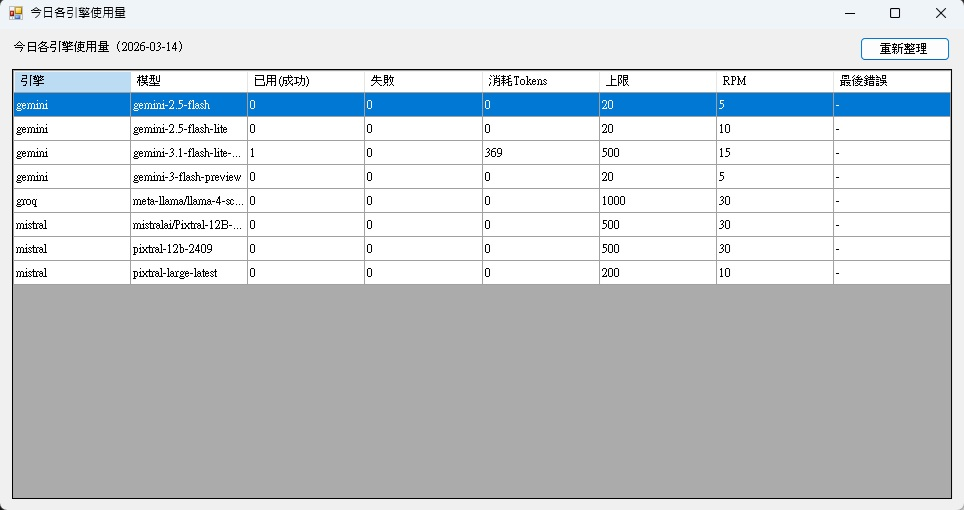
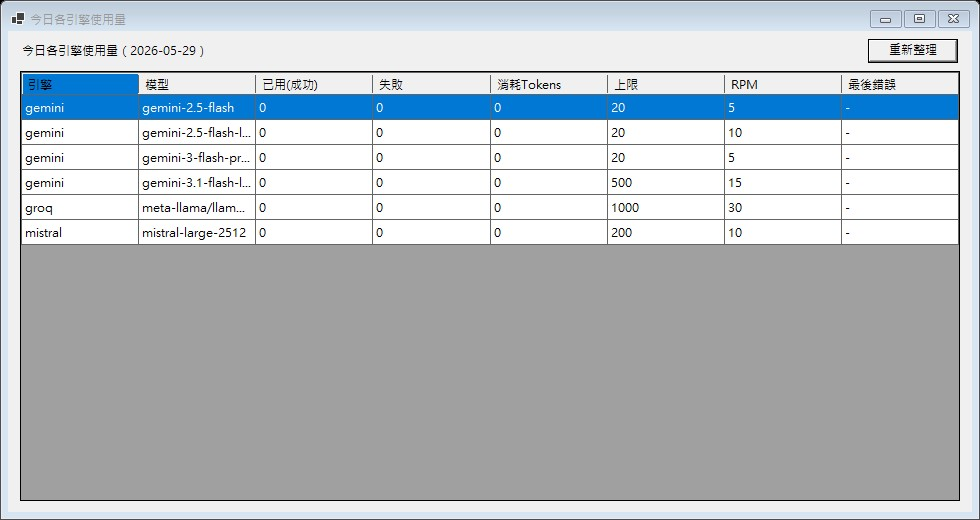
更新新版截圖與版本歷程
修改內容：

- 更新 README.md 引用的 images/main.jpg 與 images/Tokens.jpg。

- 在 README.md 的 V01.000 版本歷程補充截圖更新與 Tokens 面板清理。

- 移除 DailyQuotaTracker.cs 中舊 Pixtral 預設 quota 佔位列，避免新版 Tokens 面板顯示已移除模型。

Changed region(s): [[0.0, 0.0, 1.0, 1.0]]

diff --git a/DailyQuotaTracker.cs b/DailyQuotaTracker.cs
@@ -43,8 +43,6 @@ namespace ScreenOCRTranslator
 
                 ["groq|meta-llama/llama-4-scout-17b-16e-instruct"] = (1000, 30),
 
-                ["mistral|pixtral-12b-2409"] = (500, 30),
-                ["mistral|mistralai/pixtral-12b-2409"] = (500, 30),
                 ["mistral|mistral-large-2512"] = (200, 10)
             };
 
@@ -155,7 +153,6 @@ namespace ScreenOCRTranslator
                 EnsureEntry("gemini", "gemini-3-flash-preview");
                 EnsureEntry("gemini", "gemini-3.1-flash-lite");
                 EnsureEntry("groq", "meta-llama/llama-4-scout-17b-16e-instruct");
-                EnsureEntry("mistral", "pixtral-12b-2409");
                 EnsureEntry("mistral", "mistral-large-2512");
 
                 return _store.Entries

diff --git a/README.md b/README.md
@@ -32,6 +32,7 @@ OCR 語言資料改為內嵌資源，單檔執行時會自動解壓到 `%LOCALAP
 新增關閉視窗提示：可選擇「關閉程式」、「縮小到右下角常駐」或「取消」。<br>
 新增「今日引擎使用量」面板：顯示每個引擎/模型的成功請求、失敗計數、Tokens 用量、上限與 RPM，並每日自動更新。<br>
 配額統計改為「成功請求為主、失敗另列計數」，便於判讀實際消耗。<br>
+更新新版主畫面與 Tokens 用量截圖，並移除 Tokens 面板中的舊 Pixtral 佔位列。<br>
 
 V0.94b<br>
 1.送出 AI 翻譯請求時，會在滑鼠游標旁顯示「翻譯中...」。<br>
